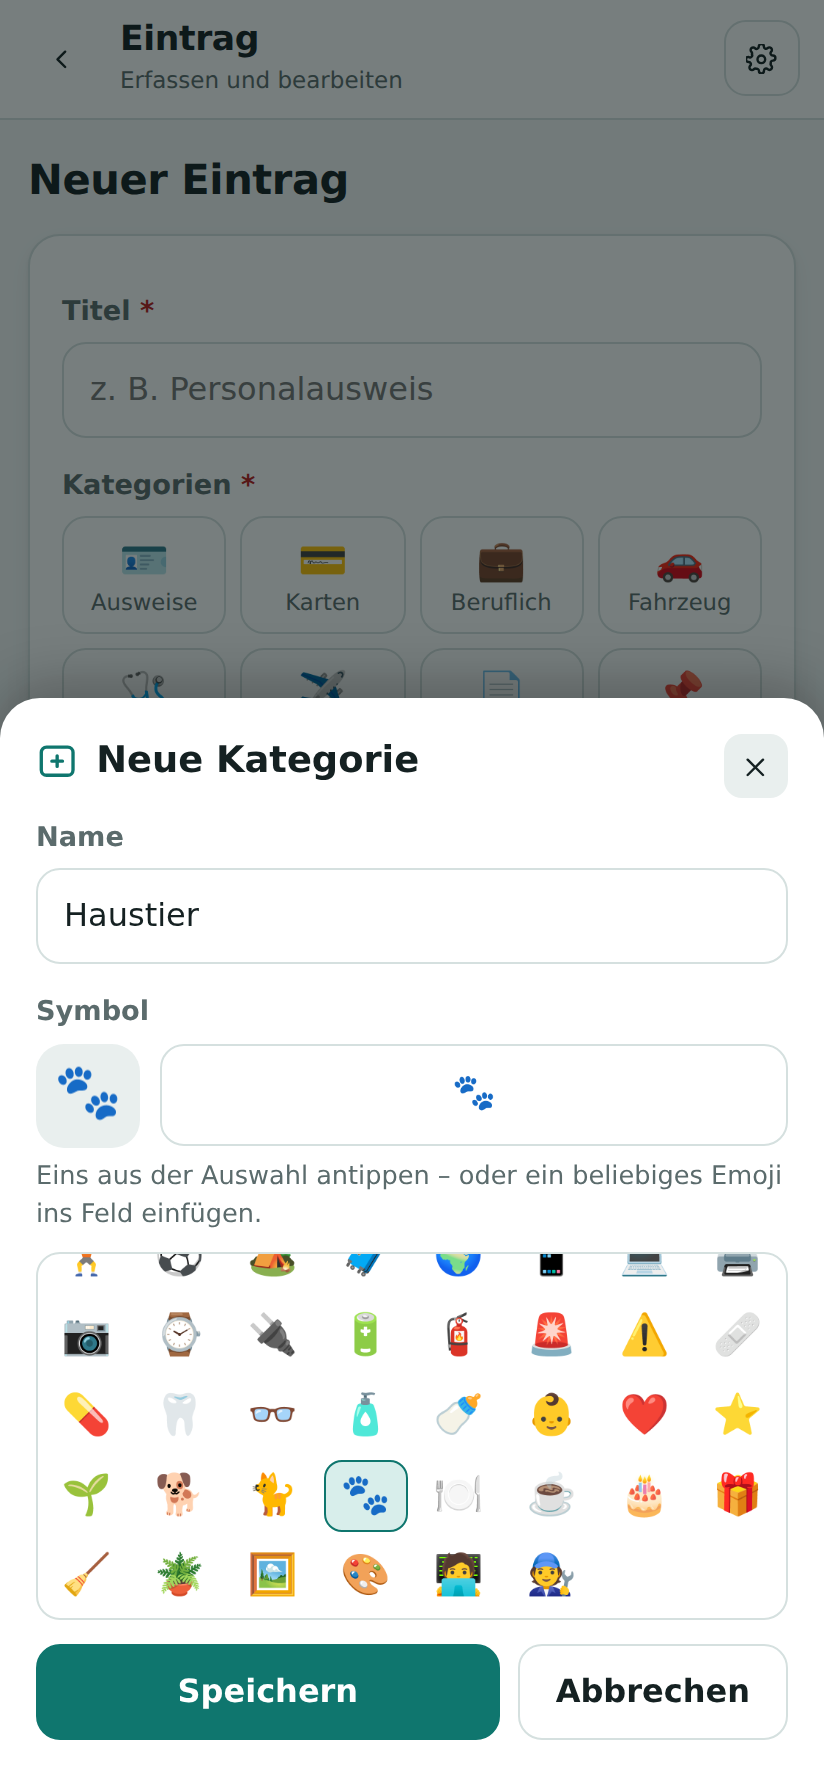
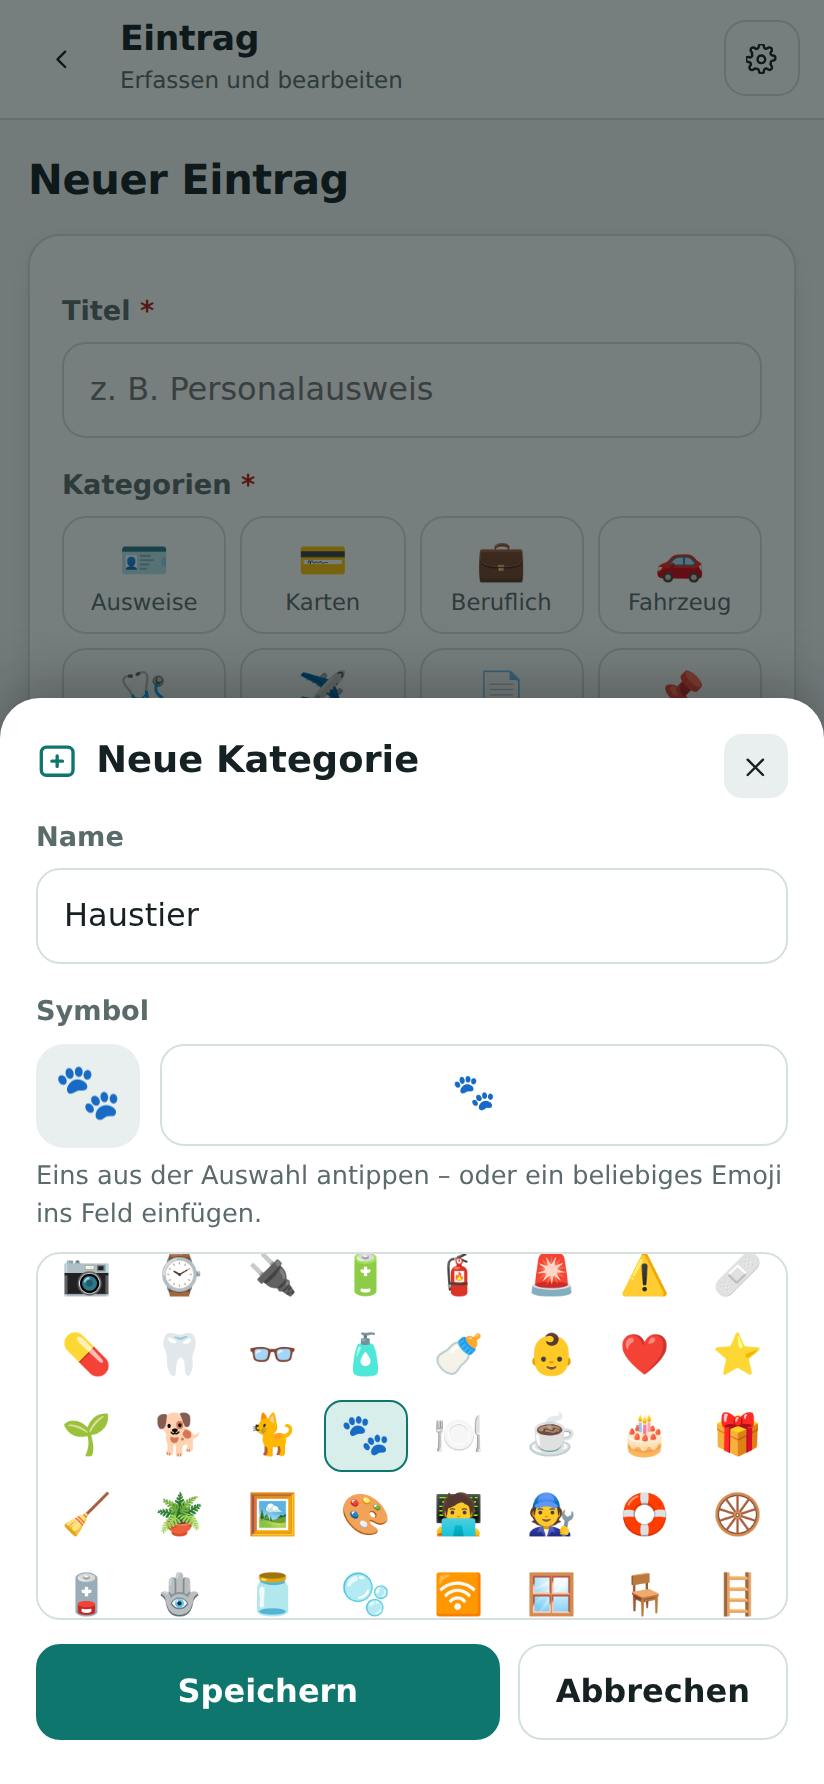
Moderne Emoji als Kategoriesymbol: zwei Fehler behoben, Auswahl erweitert (#4)
Beim Nachmessen, was die App mit neueren Emoji tatsächlich macht, kamen
zwei echte Fehler heraus.

1. Länderflaggen wurden zerstört. Eine Flagge besteht aus zwei
   Regional-Indikatoren (🇩 + 🇪). Die Prüfung hielt nur Verbinder,
   Variantenselektoren, Hauttöne und Tag-Zeichen zusammen - Regional-
   Indikatoren waren nicht dabei, also blieb aus 🇩🇪 nur 🇩 übrig, was als
   einzelner Buchstabe in einem Kasten erscheint.

2. Das Eingabefeld schnitt lange Folgen ab. maxlength stand auf 8
   UTF-16-Einheiten; 👨👩👧👦 braucht 11 und 🏴 sogar 16. Auf ein Symbol
   gekürzt wird ohnehin erst beim Übernehmen, das Feld darf also
   großzügiger sein (jetzt 32).

Die Prüfung selbst ist neu geschrieben und arbeitet weiterhin nach Regeln
statt nach einer Liste bekannter Zeichen - deshalb funktionieren auch
Emoji, die es zum Zeitpunkt dieser Änderung noch gar nicht gibt.
Nachgewiesen für Unicode 15.0 (🩷), 15.1 (🫎, 🐦🔥, 🍋🟩, 🙂↔) und 16.0 (🫩).

Erweiterte Auswahl mit Darstellungsprüfung
Das Raster enthält jetzt auch neuere Zeichen (🛟 🛞 🪫 🫙 🛜 🪟 🪑 🪜 🩷 🫎
und weitere). Weil nicht jedes Gerät jedes Emoji kennt und Fehlendes als
leeres Kästchen erscheint, wird die Auswahl beim Öffnen einmal vermessen:
Ein darstellbares Emoji ist so breit wie ein sicher vorhandenes, und eine
Verbundfolge muss zu einem Zeichen verschmelzen statt in ihre Einzelteile
zu zerfallen. Was durchfällt, wird ausgeblendet. Lässt sich nicht sinnvoll
messen, wird lieber alles gezeigt als fälschlich alles ausgeblendet.
[…]

diff --git a/android/app/src/main/assets/public/index.html b/android/app/src/main/assets/public/index.html
@@ -536,9 +536,15 @@
     <label class="field">Symbol</label>
     <div class="emojiwahl">
       <span class="gross" id="kat-emoji-gross" aria-hidden="true">📌</span>
-      <input type="text" id="kat-emoji" maxlength="8" aria-label="Eigenes Symbol">
+      <!-- maxlength großzügig: Familien- und Flaggen-Emoji bestehen aus bis zu
+           16 Zeichen; auf ein Symbol gekürzt wird erst beim Übernehmen. -->
+      <input type="text" id="kat-emoji" maxlength="32" aria-label="Eigenes Symbol">
     </div>
     <p class="hint">Eins aus der Auswahl antippen – oder ein beliebiges Emoji ins Feld einfügen.</p>
+    <p class="hint" id="kat-emoji-warn" style="display:none;color:var(--warn)">
+      Dieses Symbol kennt dein Gerät noch nicht – es würde als leeres Kästchen erscheinen.
+      Nimm lieber ein anderes.
+    </p>
     <div class="emojigrid" id="kat-emojis"></div>
     <p class="err" id="kat-err"></p>
 
@@ -911,19 +917,30 @@ const Kategorien = {
     if (!/^eigen-[a-z0-9-]+$/.test(id) || !label) return null;
     return { id, label, emoji: this.emojiPruefen(k.emoji), eigen: true };
   },
-  /* Genau ein Zeichen als Symbol. Emoji können aus mehreren Codepoints
-     bestehen (Hautfarbe, Variantenselektor, ZWJ-Folgen), deshalb wird nicht
-     auf Länge 1 geprüft, sondern auf ein einzelnes Graphem. */
+  /* Genau ein Symbol übernehmen. Ein Emoji ist oft mehr als ein Zeichen:
+     Hautton-Modifikator, Variantenselektor, ZWJ-Folgen (👨👩👧👦, 🐦🔥),
+     Flaggen aus zwei Regional-Indikatoren (🇩🇪) oder Tag-Folgen (🏴).
+     Deshalb wird nicht auf Länge 1 geprüft, sondern zusammengehalten, was
+     zusammengehört – und aus einer Kette mehrerer Emoji bleibt das erste. */
   emojiPruefen(v){
     const s = String(v == null ? "" : v).trim();
     if (!s) return "📌";
-    const zeichen = Array.from(s);
-    if (!zeichen.length) return "📌";
-    /* Ab dem zweiten sichtbaren Zeichen abschneiden – Verbinder und
-       Modifikatoren gehören noch zum ersten. */
+    const z = Array.from(s);
+    if (!z.length) return "📌";
+    const ZWJ = "";
+    const regional = c => c >= "\u{1F1E6}" && c <= "\u{1F1FF}";
+    const anhang = c => c === ZWJ || c === ""
+      || (c >= "\u{1F3FB}" && c <= "\u{1F3FF}")     /* Hautton */
+      || (c >= "\u{E0020}" && c <= "\u{E007F}");    /* Tag-Zeichen */
     let ende = 1;
-    while (ende < zeichen.length && /[\u{1f3fb}-\u{1f3ff}\u{e0020}-\u{e007f}]/u.test(zeichen[ende - 1] + zeichen[ende])) ende++;
-    return zeichen.slice(0, Math.min(ende, 8)).join("");
+    if (regional(z[0]) && z.length > 1 && regional(z[1])){
+      ende = 2;                                     /* Länderflagge */
+    } else {
+      /* Weiterlaufen über Anhängsel – und über alles, was direkt hinter
+         einem Verbinder steht. */
+      while (ende < z.length && (anhang(z[ende]) || z[ende - 1] === ZWJ)) ende++;
+    }
+    return z.slice(0, Math.min(ende, 10)).join("");
   },
 
   neueId(label){
@@ -1792,8 +1809,40 @@ function renderDetail(){
    passieren soll – im Formular wird die neue Kategorie gleich ausgewählt. */
 const EMOJI_AUSWAHL = (
   "📌📁🗂📅⏰⏳🔔✅🔖📎🧾🏛⚖🛡🔒🪪💳💼🚗🩺✈📄🏠🔑🏦💰💡🔧🛠🧰🚲🛵🚚⛵🎫🎟🎬🎵🎓📚" +
-  "🏋⚽🏕🧳🌍📱💻🖨📷⌚🔌🔋🧯🚨⚠🩹💊🦷👓🧴🍼👶❤⭐🌱🐕🐈🐾🍽☕🎂🎁🧹🪴🖼🎨🧑💻🧑🔧"
+  "🏋⚽🏕🧳🌍📱💻🖨📷⌚🔌🔋🧯🚨⚠🩹💊🦷👓🧴🍼👶❤⭐🌱🐕🐈🐾🍽☕🎂🎁🧹🪴🖼🎨🧑💻🧑🔧" +
+  /* Neuere Zeichen (Unicode 13–15). Was das Gerät nicht darstellen kann,
+     wird beim Öffnen des Dialogs automatisch ausgeblendet. */
+  "🛟🛞🪫🪬🫙🫧🛜🪟🪑🪜🪝🪞🪣🪥🪦🪧🩵🩷🩶🪽🪿🫎🪼🫛🪻🧭🗝🩻🫀🧾"
 ).match(/\p{Extended_Pictographic}(?:|\p{Extended_Pictographic}|[\u{1F3FB}-\u{1F3FF}])*/gu) || [];
+
+/* Nicht jedes Gerät kennt jedes Emoji – was der Schrift fehlt, erscheint als
+   leeres Kästchen. Deshalb wird die Auswahl einmal vermessen: Ein
+   darstellbares Emoji ist so breit wie ein sicher vorhandenes, und eine
+   Verbundfolge muss zu einem Zeichen verschmelzen, statt in ihre Einzelteile
+   zu zerfallen. Lässt sich nicht sinnvoll messen, wird lieber alles gezeigt
+   als fälschlich alles ausgeblendet. */
+const EmojiPruefung = {
+  ctx: null, referenz: 0, messbar: false,
+  vorbereiten(){
+    if (this.ctx) return this.messbar;
+    try {
+      this.ctx = document.createElement("canvas").getContext("2d");
+      this.ctx.font = "24px sans-serif";
+      this.referenz = this.ctx.measureText("📌").width;
+      const tofu = this.ctx.measureText("\u{10FFFD}").width;   /* unbelegt */
+      this.messbar = this.referenz > 0 && Math.abs(this.referenz - tofu) > 1;
+    } catch(e){ this.messbar = false; }
+    return this.messbar;
+  },
+  darstellbar(e){
+    if (!e || !this.vorbereiten()) return true;
+    const breite = this.ctx.measureText(e).width;
+    if (Math.abs(breite - this.referenz) > 1) return false;
+    if (e.indexOf("") < 0) return true;
+    const einzeln = this.ctx.measureText(e.split("").join("")).width;
+    return breite < einzeln - 1;
+  }
+};
 
 let katBearbeitet = null;      /* null = neue Kategorie */
 let katFertig = null;          /* Rückruf nach dem Speichern */
@@ -1804,6 +1853,9 @@ function katEmojiSetzen(v){
   $("kat-emoji-gross").textContent = e;
   $("kat-emojis").querySelectorAll("button").forEach(b =>
     b.classList.toggle("active", b.dataset.e === e));
+  /* Eingefügtes Zeichen, das dieses Gerät nicht kennt: freundlich hinweisen,
+     statt es kommentarlos als Kästchen anzuzeigen. */
+  $("kat-emoji-warn").style.display = EmojiPruefung.darstellbar(e) ? "none" : "";
 }
 function katDialog(id, fertig){
   katBearbeitet = id ? Core.eigene.find(k => k.id === id) || null : null;
@@ -1811,8 +1863,8 @@ function katDialog(id, fertig){
   $("kat-dlg-titel").textContent = katBearbeitet ? "Kategorie bearbeiten" : "Neue Kategorie";
   $("kat-name").value = katBearbeitet ? katBearbeitet.label : "";
   $("kat-err").classList.remove("show");
-  $("kat-emojis").innerHTML = EMOJI_AUSWAHL.map(e =>
-    '<button type="button" data-e="' + e + '">' + e + "</button>").join("");
+  $("kat-emojis").innerHTML = EMOJI_AUSWAHL.filter(e => EmojiPruefung.darstellbar(e))
+    .map(e => '<button type="button" data-e="' + e + '">' + e + "</button>").join("");
   $("kat-emojis").querySelectorAll("button").forEach(b =>
     b.addEventListener("click", () => katEmojiSetzen(b.dataset.e)));
   katEmojiSetzen(katBearbeitet ? katBearbeitet.emoji : "📌");
@@ -2259,7 +2311,7 @@ if (!load(OB_KEY, false)){ obShow(0); openModal("modal-onboarding"); }
 /* Für die automatisierten Tests: die Fachlogik ist bewusst DOM-frei und
    wird hier zum Prüfen freigelegt. Die Oberfläche greift nicht darauf zu. */
 window.N2L = { Core, Daten, Kategorien, Einst, Bridge, Erinnerungen, Kalender,
-               Edition, Ads, Billing, APP_VERSION };
+               EmojiPruefung, Edition, Ads, Billing, APP_VERSION };
 </script>
 </body>
 </html>

diff --git a/index.html b/index.html
@@ -536,9 +536,15 @@
     <label class="field">Symbol</label>
     <div class="emojiwahl">
       <span class="gross" id="kat-emoji-gross" aria-hidden="true">📌</span>
-      <input type="text" id="kat-emoji" maxlength="8" aria-label="Eigenes Symbol">
+      <!-- maxlength großzügig: Familien- und Flaggen-Emoji bestehen aus bis zu
+           16 Zeichen; auf ein Symbol gekürzt wird erst beim Übernehmen. -->
+      <input type="text" id="kat-emoji" maxlength="32" aria-label="Eigenes Symbol">
     </div>
     <p class="hint">Eins aus der Auswahl antippen – oder ein beliebiges Emoji ins Feld einfügen.</p>
+    <p class="hint" id="kat-emoji-warn" style="display:none;color:var(--warn)">
+      Dieses Symbol kennt dein Gerät noch nicht – es würde als leeres Kästchen erscheinen.
+      Nimm lieber ein anderes.
+    </p>
     <div class="emojigrid" id="kat-emojis"></div>
     <p class="err" id="kat-err"></p>
 
@@ -911,19 +917,30 @@ const Kategorien = {
     if (!/^eigen-[a-z0-9-]+$/.test(id) || !label) return null;
     return { id, label, emoji: this.emojiPruefen(k.emoji), eigen: true };
   },
-  /* Genau ein Zeichen als Symbol. Emoji können aus mehreren Codepoints
-     bestehen (Hautfarbe, Variantenselektor, ZWJ-Folgen), deshalb wird nicht
-     auf Länge 1 geprüft, sondern auf ein einzelnes Graphem. */
+  /* Genau ein Symbol übernehmen. Ein Emoji ist oft mehr als ein Zeichen:
+     Hautton-Modifikator, Variantenselektor, ZWJ-Folgen (👨👩👧👦, 🐦🔥),
+     Flaggen aus zwei Regional-Indikatoren (🇩🇪) oder Tag-Folgen (🏴).
+     Deshalb wird nicht auf Länge 1 geprüft, sondern zusammengehalten, was
+     zusammengehört – und aus einer Kette mehrerer Emoji bleibt das erste. */
   emojiPruefen(v){
     const s = String(v == null ? "" : v).trim();
     if (!s) return "📌";
-    const zeichen = Array.from(s);
-    if (!zeichen.length) return "📌";
-    /* Ab dem zweiten sichtbaren Zeichen abschneiden – Verbinder und
-       Modifikatoren gehören noch zum ersten. */
+    const z = Array.from(s);
+    if (!z.length) return "📌";
+    const ZWJ = "";
+    const regional = c => c >= "\u{1F1E6}" && c <= "\u{1F1FF}";
+    const anhang = c => c === ZWJ || c === ""
+      || (c >= "\u{1F3FB}" && c <= "\u{1F3FF}")     /* Hautton */
+      || (c >= "\u{E0020}" && c <= "\u{E007F}");    /* Tag-Zeichen */
     let ende = 1;
-    while (ende < zeichen.length && /[\u{1f3fb}-\u{1f3ff}\u{e0020}-\u{e007f}]/u.test(zeichen[ende - 1] + zeichen[ende])) ende++;
-    return zeichen.slice(0, Math.min(ende, 8)).join("");
+    if (regional(z[0]) && z.length > 1 && regional(z[1])){
+      ende = 2;                                     /* Länderflagge */
+    } else {
+      /* Weiterlaufen über Anhängsel – und über alles, was direkt hinter
+         einem Verbinder steht. */
+      while (ende < z.length && (anhang(z[ende]) || z[ende - 1] === ZWJ)) ende++;
+    }
+    return z.slice(0, Math.min(ende, 10)).join("");
   },
 
   neueId(label){
@@ -1792,8 +1809,40 @@ function renderDetail(){
    passieren soll – im Formular wird die neue Kategorie gleich ausgewählt. */
 const EMOJI_AUSWAHL = (
   "📌📁🗂📅⏰⏳🔔✅🔖📎🧾🏛⚖🛡🔒🪪💳💼🚗🩺✈📄🏠🔑🏦💰💡🔧🛠🧰🚲🛵🚚⛵🎫🎟🎬🎵🎓📚" +
-  "🏋⚽🏕🧳🌍📱💻🖨📷⌚🔌🔋🧯🚨⚠🩹💊🦷👓🧴🍼👶❤⭐🌱🐕🐈🐾🍽☕🎂🎁🧹🪴🖼🎨🧑💻🧑🔧"
+  "🏋⚽🏕🧳🌍📱💻🖨📷⌚🔌🔋🧯🚨⚠🩹💊🦷👓🧴🍼👶❤⭐🌱🐕🐈🐾🍽☕🎂🎁🧹🪴🖼🎨🧑💻🧑🔧" +
+  /* Neuere Zeichen (Unicode 13–15). Was das Gerät nicht darstellen kann,
+     wird beim Öffnen des Dialogs automatisch ausgeblendet. */
+  "🛟🛞🪫🪬🫙🫧🛜🪟🪑🪜🪝🪞🪣🪥🪦🪧🩵🩷🩶🪽🪿🫎🪼🫛🪻🧭🗝🩻🫀🧾"
 ).match(/\p{Extended_Pictographic}(?:|\p{Extended_Pictographic}|[\u{1F3FB}-\u{1F3FF}])*/gu) || [];
+
+/* Nicht jedes Gerät kennt jedes Emoji – was der Schrift fehlt, erscheint als
+   leeres Kästchen. Deshalb wird die Auswahl einmal vermessen: Ein
+   darstellbares Emoji ist so breit wie ein sicher vorhandenes, und eine
+   Verbundfolge muss zu einem Zeichen verschmelzen, statt in ihre Einzelteile
+   zu zerfallen. Lässt sich nicht sinnvoll messen, wird lieber alles gezeigt
+   als fälschlich alles ausgeblendet. */
+const EmojiPruefung = {
+  ctx: null, referenz: 0, messbar: false,
+  vorbereiten(){
+    if (this.ctx) return this.messbar;
+    try {
+      this.ctx = document.createElement("canvas").getContext("2d");
+      this.ctx.font = "24px sans-serif";
+      this.referenz = this.ctx.measureText("📌").width;
+      const tofu = this.ctx.measureText("\u{10FFFD}").width;   /* unbelegt */
+      this.messbar = this.referenz > 0 && Math.abs(this.referenz - tofu) > 1;
+    } catch(e){ this.messbar = false; }
+    return this.messbar;
+  },
+  darstellbar(e){
+    if (!e || !this.vorbereiten()) return true;
+    const breite = this.ctx.measureText(e).width;
+    if (Math.abs(breite - this.referenz) > 1) return false;
+    if (e.indexOf("") < 0) return true;
+    const einzeln = this.ctx.measureText(e.split("").join("")).width;
+    return breite < einzeln - 1;
+  }
+};
 
 let katBearbeitet = null;      /* null = neue Kategorie */
 let katFertig = null;          /* Rückruf nach dem Speichern */
@@ -1804,6 +1853,9 @@ function katEmojiSetzen(v){
   $("kat-emoji-gross").textContent = e;
   $("kat-emojis").querySelectorAll("button").forEach(b =>
     b.classList.toggle("active", b.dataset.e === e));
+  /* Eingefügtes Zeichen, das dieses Gerät nicht kennt: freundlich hinweisen,
+     statt es kommentarlos als Kästchen anzuzeigen. */
+  $("kat-emoji-warn").style.display = EmojiPruefung.darstellbar(e) ? "none" : "";
 }
 function katDialog(id, fertig){
   katBearbeitet = id ? Core.eigene.find(k => k.id === id) || null : null;
@@ -1811,8 +1863,8 @@ function katDialog(id, fertig){
   $("kat-dlg-titel").textContent = katBearbeitet ? "Kategorie bearbeiten" : "Neue Kategorie";
   $("kat-name").value = katBearbeitet ? katBearbeitet.label : "";
   $("kat-err").classList.remove("show");
-  $("kat-emojis").innerHTML = EMOJI_AUSWAHL.map(e =>
-    '<button type="button" data-e="' + e + '">' + e + "</button>").join("");
+  $("kat-emojis").innerHTML = EMOJI_AUSWAHL.filter(e => EmojiPruefung.darstellbar(e))
+    .map(e => '<button type="button" data-e="' + e + '">' + e + "</button>").join("");
   $("kat-emojis").querySelectorAll("button").forEach(b =>
     b.addEventListener("click", () => katEmojiSetzen(b.dataset.e)));
   katEmojiSetzen(katBearbeitet ? katBearbeitet.emoji : "📌");
@@ -2259,7 +2311,7 @@ if (!load(OB_KEY, false)){ obShow(0); openModal("modal-onboarding"); }
 /* Für die automatisierten Tests: die Fachlogik ist bewusst DOM-frei und
    wird hier zum Prüfen freigelegt. Die Oberfläche greift nicht darauf zu. */
 window.N2L = { Core, Daten, Kategorien, Einst, Bridge, Erinnerungen, Kalender,
-               Edition, Ads, Billing, APP_VERSION };
+               EmojiPruefung, Edition, Ads, Billing, APP_VERSION };
 </script>
 </body>
 </html>

diff --git a/www/index.html b/www/index.html
@@ -536,9 +536,15 @@
     <label class="field">Symbol</label>
     <div class="emojiwahl">
       <span class="gross" id="kat-emoji-gross" aria-hidden="true">📌</span>
-      <input type="text" id="kat-emoji" maxlength="8" aria-label="Eigenes Symbol">
+      <!-- maxlength großzügig: Familien- und Flaggen-Emoji bestehen aus bis zu
+           16 Zeichen; auf ein Symbol gekürzt wird erst beim Übernehmen. -->
+      <input type="text" id="kat-emoji" maxlength="32" aria-label="Eigenes Symbol">
     </div>
     <p class="hint">Eins aus der Auswahl antippen – oder ein beliebiges Emoji ins Feld einfügen.</p>
+    <p class="hint" id="kat-emoji-warn" style="display:none;color:var(--warn)">
+      Dieses Symbol kennt dein Gerät noch nicht – es würde als leeres Kästchen erscheinen.
+      Nimm lieber ein anderes.
+    </p>
     <div class="emojigrid" id="kat-emojis"></div>
     <p class="err" id="kat-err"></p>
 
@@ -911,19 +917,30 @@ const Kategorien = {
     if (!/^eigen-[a-z0-9-]+$/.test(id) || !label) return null;
     return { id, label, emoji: this.emojiPruefen(k.emoji), eigen: true };
   },
-  /* Genau ein Zeichen als Symbol. Emoji können aus mehreren Codepoints
-     bestehen (Hautfarbe, Variantenselektor, ZWJ-Folgen), deshalb wird nicht
-     auf Länge 1 geprüft, sondern auf ein einzelnes Graphem. */
+  /* Genau ein Symbol übernehmen. Ein Emoji ist oft mehr als ein Zeichen:
+     Hautton-Modifikator, Variantenselektor, ZWJ-Folgen (👨👩👧👦, 🐦🔥),
+     Flaggen aus zwei Regional-Indikatoren (🇩🇪) oder Tag-Folgen (🏴).
+     Deshalb wird nicht auf Länge 1 geprüft, sondern zusammengehalten, was
+     zusammengehört – und aus einer Kette mehrerer Emoji bleibt das erste. */
   emojiPruefen(v){
     const s = String(v == null ? "" : v).trim();
     if (!s) return "📌";
-    const zeichen = Array.from(s);
-    if (!zeichen.length) return "📌";
-    /* Ab dem zweiten sichtbaren Zeichen abschneiden – Verbinder und
-       Modifikatoren gehören noch zum ersten. */
+    const z = Array.from(s);
+    if (!z.length) return "📌";
+    const ZWJ = "";
+    const regional = c => c >= "\u{1F1E6}" && c <= "\u{1F1FF}";
+    const anhang = c => c === ZWJ || c === ""
+      || (c >= "\u{1F3FB}" && c <= "\u{1F3FF}")     /* Hautton */
+      || (c >= "\u{E0020}" && c <= "\u{E007F}");    /* Tag-Zeichen */
     let ende = 1;
-    while (ende < zeichen.length && /[\u{1f3fb}-\u{1f3ff}\u{e0020}-\u{e007f}]/u.test(zeichen[ende - 1] + zeichen[ende])) ende++;
-    return zeichen.slice(0, Math.min(ende, 8)).join("");
+    if (regional(z[0]) && z.length > 1 && regional(z[1])){
+      ende = 2;                                     /* Länderflagge */
+    } else {
+      /* Weiterlaufen über Anhängsel – und über alles, was direkt hinter
+         einem Verbinder steht. */
+      while (ende < z.length && (anhang(z[ende]) || z[ende - 1] === ZWJ)) ende++;
+    }
+    return z.slice(0, Math.min(ende, 10)).join("");
   },
 
   neueId(label){
@@ -1792,8 +1809,40 @@ function renderDetail(){
    passieren soll – im Formular wird die neue Kategorie gleich ausgewählt. */
 const EMOJI_AUSWAHL = (
   "📌📁🗂📅⏰⏳🔔✅🔖📎🧾🏛⚖🛡🔒🪪💳💼🚗🩺✈📄🏠🔑🏦💰💡🔧🛠🧰🚲🛵🚚⛵🎫🎟🎬🎵🎓📚" +
-  "🏋⚽🏕🧳🌍📱💻🖨📷⌚🔌🔋🧯🚨⚠🩹💊🦷👓🧴🍼👶❤⭐🌱🐕🐈🐾🍽☕🎂🎁🧹🪴🖼🎨🧑💻🧑🔧"
+  "🏋⚽🏕🧳🌍📱💻🖨📷⌚🔌🔋🧯🚨⚠🩹💊🦷👓🧴🍼👶❤⭐🌱🐕🐈🐾🍽☕🎂🎁🧹🪴🖼🎨🧑💻🧑🔧" +
+  /* Neuere Zeichen (Unicode 13–15). Was das Gerät nicht darstellen kann,
+     wird beim Öffnen des Dialogs automatisch ausgeblendet. */
+  "🛟🛞🪫🪬🫙🫧🛜🪟🪑🪜🪝🪞🪣🪥🪦🪧🩵🩷🩶🪽🪿🫎🪼🫛🪻🧭🗝🩻🫀🧾"
 ).match(/\p{Extended_Pictographic}(?:|\p{Extended_Pictographic}|[\u{1F3FB}-\u{1F3FF}])*/gu) || [];
+
+/* Nicht jedes Gerät kennt jedes Emoji – was der Schrift fehlt, erscheint als
+   leeres Kästchen. Deshalb wird die Auswahl einmal vermessen: Ein
+   darstellbares Emoji ist so breit wie ein sicher vorhandenes, und eine
+   Verbundfolge muss zu einem Zeichen verschmelzen, statt in ihre Einzelteile
+   zu zerfallen. Lässt sich nicht sinnvoll messen, wird lieber alles gezeigt
+   als fälschlich alles ausgeblendet. */
+const EmojiPruefung = {
+  ctx: null, referenz: 0, messbar: false,
+  vorbereiten(){
+    if (this.ctx) return this.messbar;
+    try {
+      this.ctx = document.createElement("canvas").getContext("2d");
+      this.ctx.font = "24px sans-serif";
+      this.referenz = this.ctx.measureText("📌").width;
+      const tofu = this.ctx.measureText("\u{10FFFD}").width;   /* unbelegt */
+      this.messbar = this.referenz > 0 && Math.abs(this.referenz - tofu) > 1;
+    } catch(e){ this.messbar = false; }
+    return this.messbar;
+  },
+  darstellbar(e){
+    if (!e || !this.vorbereiten()) return true;
+    const breite = this.ctx.measureText(e).width;
+    if (Math.abs(breite - this.referenz) > 1) return false;
+    if (e.indexOf("") < 0) return true;
+    const einzeln = this.ctx.measureText(e.split("").join("")).width;
+    return breite < einzeln - 1;
+  }
+};
 
 let katBearbeitet = null;      /* null = neue Kategorie */
 let katFertig = null;          /* Rückruf nach dem Speichern */
@@ -1804,6 +1853,9 @@ function katEmojiSetzen(v){
   $("kat-emoji-gross").textContent = e;
   $("kat-emojis").querySelectorAll("button").forEach(b =>
     b.classList.toggle("active", b.dataset.e === e));
+  /* Eingefügtes Zeichen, das dieses Gerät nicht kennt: freundlich hinweisen,
+     statt es kommentarlos als Kästchen anzuzeigen. */
+  $("kat-emoji-warn").style.display = EmojiPruefung.darstellbar(e) ? "none" : "";
 }
 function katDialog(id, fertig){
   katBearbeitet = id ? Core.eigene.find(k => k.id === id) || null : null;
@@ -1811,8 +1863,8 @@ function katDialog(id, fertig){
   $("kat-dlg-titel").textContent = katBearbeitet ? "Kategorie bearbeiten" : "Neue Kategorie";
   $("kat-name").value = katBearbeitet ? katBearbeitet.label : "";
   $("kat-err").classList.remove("show");
-  $("kat-emojis").innerHTML = EMOJI_AUSWAHL.map(e =>
-    '<button type="button" data-e="' + e + '">' + e + "</button>").join("");
+  $("kat-emojis").innerHTML = EMOJI_AUSWAHL.filter(e => EmojiPruefung.darstellbar(e))
+    .map(e => '<button type="button" data-e="' + e + '">' + e + "</button>").join("");
   $("kat-emojis").querySelectorAll("button").forEach(b =>
     b.addEventListener("click", () => katEmojiSetzen(b.dataset.e)));
   katEmojiSetzen(katBearbeitet ? katBearbeitet.emoji : "📌");
@@ -2259,7 +2311,7 @@ if (!load(OB_KEY, false)){ obShow(0); openModal("modal-onboarding"); }
 /* Für die automatisierten Tests: die Fachlogik ist bewusst DOM-frei und
    wird hier zum Prüfen freigelegt. Die Oberfläche greift nicht darauf zu. */
 window.N2L = { Core, Daten, Kategorien, Einst, Bridge, Erinnerungen, Kalender,
-               Edition, Ads, Billing, APP_VERSION };
+               EmojiPruefung, Edition, Ads, Billing, APP_VERSION };
 </script>
 </body>
 </html>
